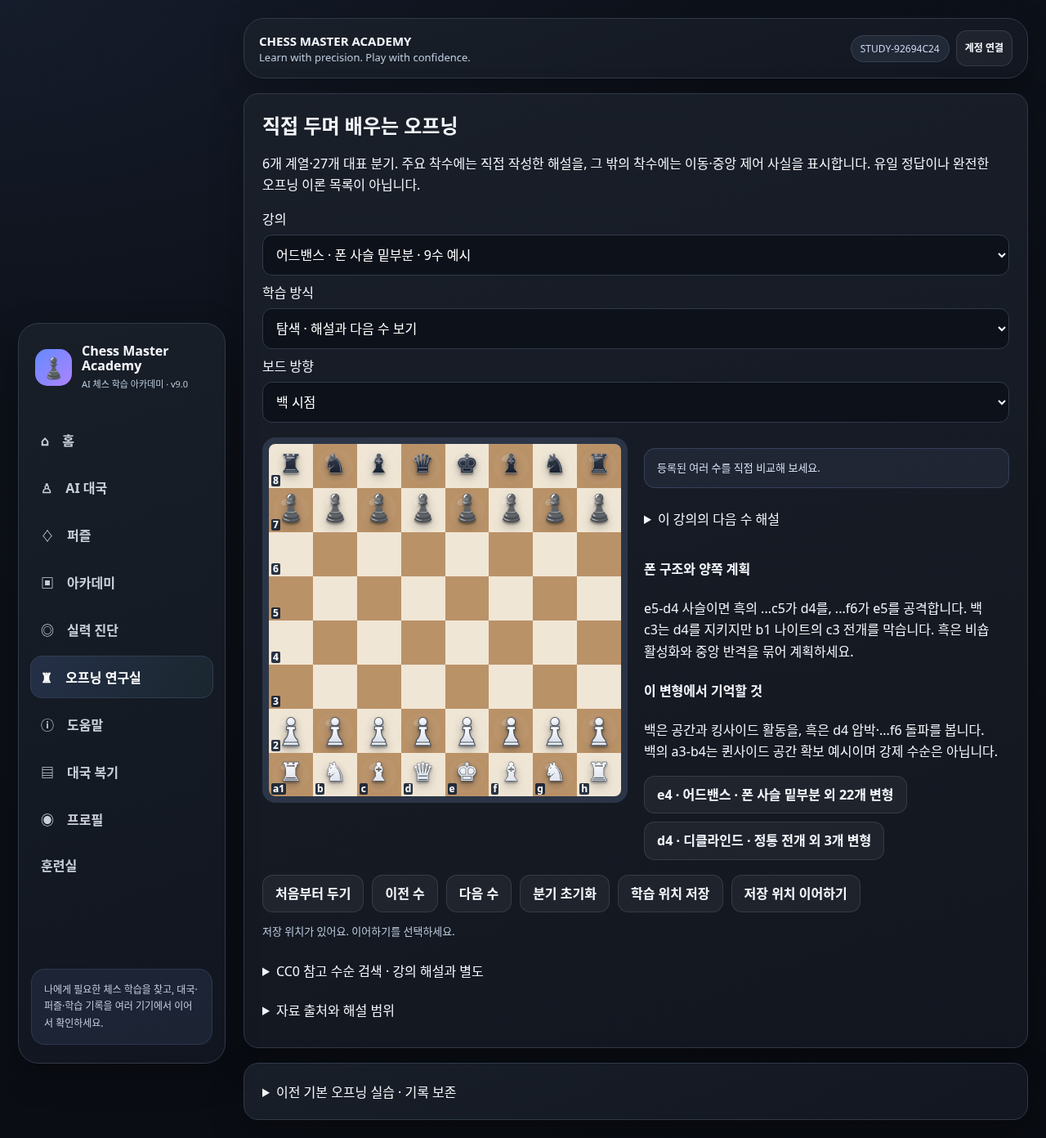
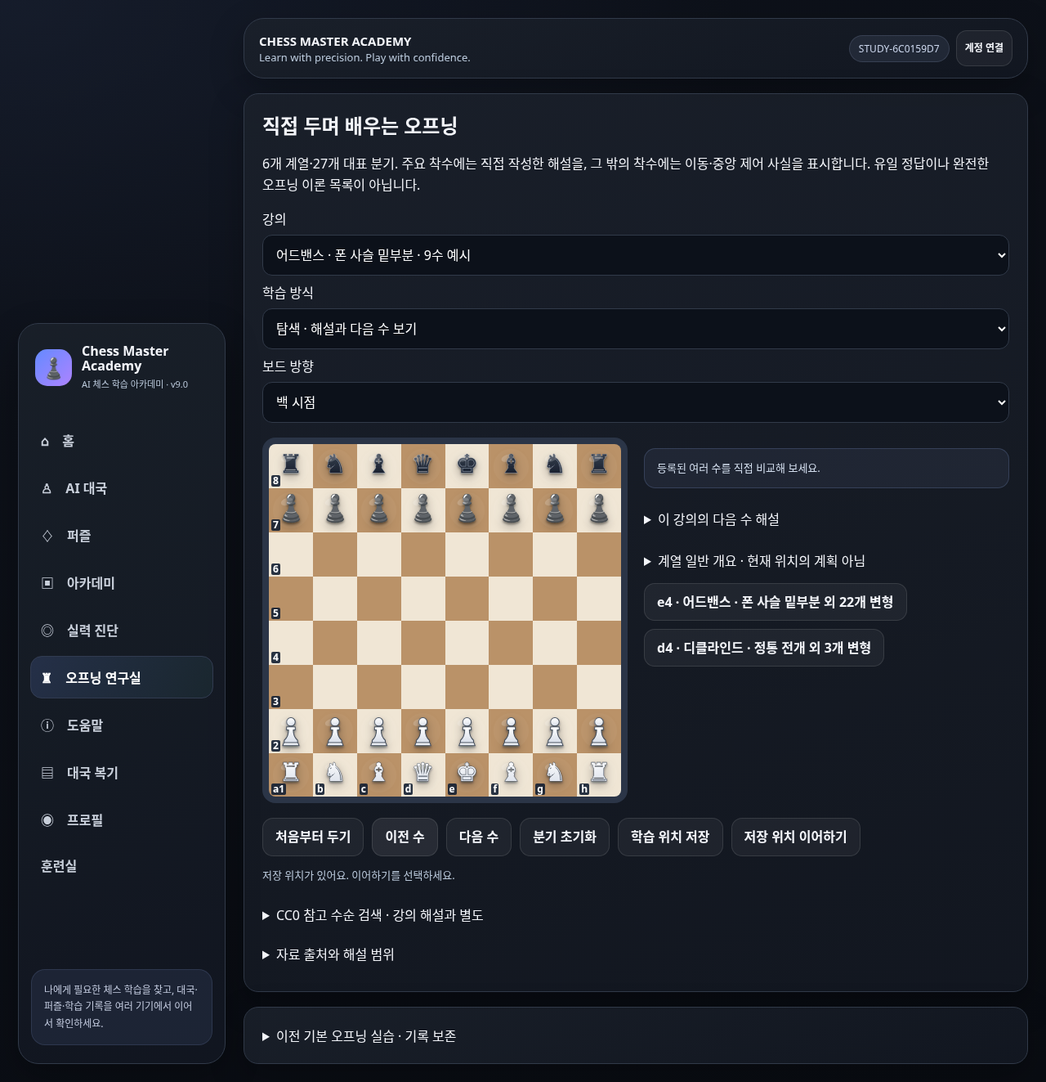
Fix review-only history actions and opening position consistency

diff --git a/public/journey.js b/public/journey.js
@@ -22,25 +22,25 @@ function button(parent,label,fn){const b=text(parent,'button',label,'btn');b.typ
 function lines(v){return Array.isArray(v)?v.join(' · '):typeof v==='object'?Object.entries(v||{}).map(([k,x])=>`${k}: ${x}`).join(' · '):String(v??'');}
 function dateLabel(value){if(!value)return '시각 미기록';const d=new Date(value);return isNaN(d)?'시각 미기록':d.toLocaleString('ko-KR',{dateStyle:'medium',timeStyle:'short'});}
 function verdict(item){return item.outcome==='verified_error'?'엔진 분석에서 큰 손실 확인':item.outcome==='equivalent_alternative'?'평가가 비슷한 대안 · 전체 수순은 추가 확인':item.outcome==='unverified_alternative'?'대안 수 판단 보류 · 실패 집계 제외':item.outcome==='not_answered'?'미응답 · 수행 미관찰':item.outcome==='verified_non_mate'?'규칙으로 확인된 메이트 미달성':item.complete?'전체 수순 성공':item.first_correct?'첫수 성공 · 전체 수순 미완료':'수행 확인 필요';}
-function renderReport(report,target='journeyResults'){let host=by(target);host.replaceChildren();if(!report)return;
- if(report.snapshot&&window.growthReport){window.growthReport(host,report,state?.cycle,(task)=>window.learningCycle(report.id,task.id),()=>start('balanced'),(area)=>start('targeted',area));const details=document.createElement('details');host.append(details);text(details,'summary','문항별 풀이와 자세한 근거');host=text(details,'div','');}
+function renderReport(report,target='journeyResults',readOnly=false){let host=by(target);host.replaceChildren();if(!report)return;
+ if(report.snapshot&&window.growthReport){window.growthReport(host,report,state?.cycle,(task)=>window.learningCycle(report.id,task.id),()=>start('balanced'),(area)=>start('targeted',area),readOnly);const details=document.createElement('details');host.append(details);text(details,'summary','문항별 풀이와 자세한 근거');host=text(details,'div','');}
  const heading=text(host,'div','','card');text(heading,'h3','진단 결과 · 수행 근거');text(heading,'p',dateLabel(report.at),'subtle');
  text(heading,'p',report.summary?.observed||'첫수 성공과 전체 수순 성공을 구분해 확인하세요.');
  text(heading,'p',report.summary?.uncertain||'적은 표본이나 과거 노출 불명은 실력 부족을 뜻하지 않습니다.','notice');
  text(heading,'p',report.summary?.next||'관찰한 수순 한 가지를 연습해 보세요.');
  const next=(report.recommendations||[])[0]||(report.comparison_practice||[])[0];
- if(next)button(heading,`연결된 훈련 시작 · ${next.label||'수순 비교'}`,()=>train(report.id,next.item_id));
+ if(next&&!readOnly)button(heading,`연결된 훈련 시작 · ${next.label||'수순 비교'}`,()=>train(report.id,next.item_id));
  const grid=text(host,'div','','journey-areas');for(const area of report.areas||[]){const card=text(grid,'article','','card');text(card,'h3',area.label||area.id);text(card,'p',`문항 ${area.count??0} · 첫수 성공 ${area.first_success??0} · 전체 성공 ${area.full_success??0} · 부분 수행 ${area.partial??0}`);
  text(card,'p',`판단 보류 ${area.unverified??0} · 미응답 ${area.unanswered??0} · 앱 내 새 국면 수행 ${area.app_new_attempts??0}`,'subtle');text(card,'p',`${area.confidence||'근거 부족'} · ${(area.reason||'추가 관찰이 필요합니다.').replaceAll('defensiveMove','방어 수')}`,'notice');
  const details=document.createElement('details');card.append(details);text(details,'summary','문항별 근거 확인');text(details,'p',`독립 국면 ${area.independent??0} · ${report.version||'버전 미기록'} · ${report.measurement_scope||'안내 조건 미기록'}`,'subtle');
  if(area.evidence)text(details,'p',`같은 조건의 앱 내 누적 관찰 ${area.evidence.tracked??0}국면 · 최근 ${dateLabel(area.evidence.latest_at)}`);
- let drawn=false;details.addEventListener('toggle',()=>{if(!details.open||drawn)return;drawn=true;for(const item of area.items||[]){const box=text(details,'div','','journey-item');text(box,'h4',verdict(item));text(box,'p',item.reason||'');if(item.engine_evidence)text(box,'p',window.cmaEvidenceLabel?.(item.engine_evidence)||'엔진 근거 확인 필요');text(box,'p',`직접 맞힌 수 ${item.correct_plies??0}/${item.total_plies??0} · 자료 난도 ${item.rating??'미기록'}`);text(box,'p',`내 응답: ${lines(item.submitted)||'없음'} · 기준 응답: ${lines(item.expected)||'없음'}`,'subtle');text(box,'p',`노출 ${dateLabel(item.shown_at)} · 제출 ${dateLabel(item.completed_at)}`,'footnote');text(box,'p',`근거 ID ${item.id} / ${item.puzzle_id||'국면'} · 태그 ${lines(item.tags)} · 도움 ${item.helped===false?'없음':'미기록 또는 사용'} · 앱 밖 과거 노출 ${item.prior_exposure_unknown?'알 수 없음':'미기록'}`,'footnote');if(item.fen){const mini=text(box,'div','','board journey-evidence-board');mini.id=`journeyEvidence-${report.id}-${item.id}`.replace(/[^a-zA-Z0-9_-]/g,'_');drawBoard(mini.id,fromFen(item.fen),{flip:item.fen.split(' ')[1]==='b'});}button(box,'이 근거로 훈련하기',()=>train(report.id,item.id));}});
- if(state?.competencies?.find(c=>c.id===area.id)?.measured===false){text(card,'p','검증된 자료가 준비되기 전에는 출제하지 않습니다.','footnote');}else{
+ let drawn=false;details.addEventListener('toggle',()=>{if(!details.open||drawn)return;drawn=true;for(const item of area.items||[]){const box=text(details,'div','','journey-item');text(box,'h4',verdict(item));text(box,'p',item.reason||'');if(item.engine_evidence)text(box,'p',window.cmaEvidenceLabel?.(item.engine_evidence)||'엔진 근거 확인 필요');text(box,'p',`직접 맞힌 수 ${item.correct_plies??0}/${item.total_plies??0} · 자료 난도 ${item.rating??'미기록'}`);text(box,'p',`내 응답: ${lines(item.submitted)||'없음'} · 기준 응답: ${lines(item.expected)||'없음'}`,'subtle');text(box,'p',`노출 ${dateLabel(item.shown_at)} · 제출 ${dateLabel(item.completed_at)}`,'footnote');text(box,'p',`근거 ID ${item.id} / ${item.puzzle_id||'국면'} · 태그 ${lines(item.tags)} · 도움 ${item.helped===false?'없음':'미기록 또는 사용'} · 앱 밖 과거 노출 ${item.prior_exposure_unknown?'알 수 없음':'미기록'}`,'footnote');if(item.fen){const mini=text(box,'div','','board journey-evidence-board');mini.id=`journeyEvidence-${report.id}-${item.id}`.replace(/[^a-zA-Z0-9_-]/g,'_');drawBoard(mini.id,fromFen(item.fen),{flip:item.fen.split(' ')[1]==='b'});}if(!readOnly)button(box,'이 근거로 훈련하기',()=>train(report.id,item.id));}});
+ if(state?.competencies?.find(c=>c.id===area.id)?.measured===false){text(card,'p','검증된 자료가 준비되기 전에는 출제하지 않습니다.','footnote');}else if(!readOnly){
  const extra=state?.additional?.[area.id];if(extra)text(card,'p',extra.reason,'footnote');button(card,'이 영역 추가 확인',()=>start('targeted',area.id));
  const gate=state?.rechecks?.[area.id];if(gate){text(card,'p',gate.reason+(gate.ready_at?` 재평가 가능: ${dateLabel(gate.ready_at)}`:''));if(gate.last_exposure_at)text(card,'p','마지막 관련 노출: '+dateLabel(gate.last_exposure_at),'subtle');text(card,'p',gate.practice_effect+' '+gate.while_waiting,'footnote');}
  const recheck=button(card,'7일 뒤 기억 유지 확인',()=>start('recheck',area.id));recheck.dataset.ineligible=String(gate?.eligible===false);recheck.disabled=gate?.eligible===false;
  }}
- if((!session||session.phase==='complete')&&!report.snapshot){const b=button(host,'새 진단 시작',()=>start());b.dataset.ineligible=String(state?.cycle&&!state.cycle.unlocked);}
+ if(!readOnly&&(!session||session.phase==='complete')&&!report.snapshot){const b=button(host,'새 진단 시작',()=>start());b.dataset.ineligible=String(state?.cycle&&!state.cycle.unlocked);}
  const audit=document.createElement('details');host.append(audit);text(audit,'summary','측정 범위와 비교 제한');if(report.comparison)text(audit,'p',lines(report.comparison));for(const limitation of report.limitations||[])text(audit,'p',limitation,'footnote');
 }
 function renderHome(){const primary=by('journeyHomeOpen');if(busy||state?.preparing){primary.textContent='준비 상태 확인';by('journeyHomeStatus').textContent=state?.preparing?'진단 자료를 준비 중입니다. 다른 기능을 이용할 수 있습니다.':'저장 상태를 확인 중입니다.';primary.onclick=open;return;}
@@ -51,11 +51,11 @@ function renderHome(){const primary=by('journeyHomeOpen');if(busy||state?.prepar
 function renderBoard(){const q=session?.question,fb=session?.feedback;const fen=session?.phase==='feedback'?(fb?.fen||q?.fen):q?.fen;if(!fen){by('journeyBoard').replaceChildren();return;}const legal=q?.legal||[];drawBoard('journeyBoard',fromFen(fen),{flip:q?.side==='black'||q?.side==='b',selected,targets:selected?legal.filter(u=>u.slice(0,2)===selected).map(u=>({to:u.slice(2,4)})):[],opponent:q?.opponent_last_move?[q.opponent_last_move.slice(0,2),q.opponent_last_move.slice(2,4)]:[],onClick:session.phase==='question'&&!busy&&!needsRefresh?click:undefined});}
 function renderSession(value){session=value;selected=null;window.cmaMate?.clear('journeyBoard');const active=value&&value.phase!=='complete';if(active)by('journeyResults').replaceChildren();by('journeyTask').hidden=!active;by('journeyIntro').hidden=!!active||!!state?.latest||!!value?.report;if(!active){by('journeyBoard').replaceChildren();if(value?.report){if(value.report.snapshot)pendingLoad=true;state={...(state||{}),active:null,latest:value.report};renderReport(value.report);}controls();return;}const q=value.question||{};by('journeyProgress').textContent=`${value.index+1} / ${value.total} 문항`;by('journeySide').textContent=q.side==='black'||q.side==='b'?'흑 차례':'백 차례';by('journeyGoal').textContent=q.goal||'후속 수순까지 찾아보세요.';by('journeyLabel').textContent=q.label||q.competency||'현재 과제';by('journeyInstruction').textContent=value.phase==='question'?value.measurement_scope==='uncued_execution'?'상대 응수를 보고 이어서 직접 두세요.':`상대 응수 뒤에도 이어서 직접 두세요. 내 착수 진행 ${q.ply??0} / ${q.total_plies??'?'}회`:'이 문항의 채점이 저장되었습니다. 다음 문항을 눌러 진행하세요.';by('journeySkip').hidden=value.phase!=='question';by('journeyNext').hidden=value.phase!=='feedback';by('journeyNext').textContent=value.index+1===value.total?'결과 보기':'다음 문항';const fb=by('journeyFeedback');fb.replaceChildren();if(value.phase==='feedback'){const f=value.feedback||{};text(fb,'h3',verdict(f));text(fb,'p',f.reason||'');if(f.engine_evidence){text(fb,'p',window.cmaEvidenceLabel?.(f.engine_evidence)||'분석 상태를 확인하세요.');const detail=text(fb,'details','');text(detail,'summary','대안 판정 근거');text(detail,'p',window.cmaEvidenceLabel?.(f.engine_evidence)||f.engine_evidence.reason);text(detail,'small',JSON.stringify(f.engine_evidence));}text(fb,'p',`직접 맞힌 수 ${f.correct_plies??0}/${f.total_plies??0}`);text(fb,'p',`실제 제출한 내 수: ${lines(f.submitted)||'없음'} · 원본 기준 내 수: ${lines(f.expected)||'없음'}`);if(f.continuation?.length){text(fb,'p',(f.complete?'실제 완료 수순: ':'원본 기준 수순: ')+f.continuation.map(x=>x.san||x.move).join(' → '));const replay=document.createElement('details');fb.append(replay);text(replay,'summary','상대 응수와 후속 수순 다시 보기');text(replay,'p','채점 후 해설입니다. 재생해도 진단 응답이나 성공 기록은 바뀌지 않습니다.','footnote');const replayBoard=text(replay,'div','','board');replayBoard.id='journeyLineBoard';const step=text(replay,'p','','notice');let position=0;const frames=f.continuation.filter(x=>x.fen);const draw=()=>{if(!frames.length)return;const frame=frames[position];drawBoard('journeyLineBoard',fromFen(frame.fen),{flip:q.side==='black'||q.side==='b'});step.textContent=`${position+1} / ${frames.length} · ${frame.san||frame.move||''}`;};button(replay,'이전 수',()=>{position=Math.max(0,position-1);draw();});button(replay,'다음 수',()=>{position=Math.min(frames.length-1,position+1);draw();});replay.addEventListener('toggle',draw);}window.cmaMate?.show('journeyBoard',f.mate_explanation,q.side==='black'||q.side==='b');}renderBoard();controls();}
 async function request(work,done){if(busy)return;const auth=token,stamp=++serial;busy=true;selected=null;controls();renderBoard();say('서버에 저장된 상태를 확인하고 있습니다…');const slow=setTimeout(()=>{if(stamp===serial)say('응답이 지연되고 있습니다. 이 창을 닫아도 저장된 진단은 유지됩니다. 중복 제출하지 않고 기다려 주세요.');},12000);try{const value=await work();if(stamp!==serial||token!==auth)return;needsRefresh=false;done(value);say('서버 상태를 확인했습니다.');}catch(e){if(stamp===serial&&token===auth){needsRefresh=true;say(`${e.message} 저장 상태 확인으로 실제 반영 여부를 먼저 확인하세요.`);selected=null;}}finally{clearTimeout(slow);if(stamp===serial){busy=false;controls();renderBoard();if(pendingLoad){pendingLoad=false;load();}}}}
-async function load(){if(busy){pendingLoad=true;return;}if(owner!==token)clear();if(!token){say('진단을 저장하고 이어하려면 로그인해 주세요. 시작 버튼을 누르면 로그인으로 안내합니다.');controls();return;}return request(()=>api('/journey'),d=>{state=d;window.growthProfile?.(d);window.cmaLearningCycle?.(d);if(!d.active)renderReport(d.latest);renderSession(d.active);by('journeyPast').hidden=!d.results?.length;by('journeyPast').open=false;by('journeyPastReport').replaceChildren();const history=by('journeyHistory');history.replaceChildren();history.hidden=!d.results?.length;if(d.results?.length){const label=text(history,'label','저장된 진단 선택 ');const select=document.createElement('select');select.className='field';select.setAttribute('aria-label','저장된 진단 선택');label.append(select);for(const report of [...d.results].reverse()){const option=text(select,'option',dateLabel(report.at));option.value=report.id;}select.value=d.latest?.id||select.value;const showPast=()=>{renderReport(d.results.find(r=>r.id===select.value),'journeyPastReport');by('journeyPastReport').querySelector('.growth-plan')?.remove();for(const b of by('journeyPastReport').querySelectorAll('button')){b.disabled=true;b.dataset.ineligible='true';}};select.onchange=showPast;by('journeyPast').ontoggle=()=>{if(by('journeyPast').open)showPast();};}by('journeyHomeStatus').textContent=d.active?'저장된 진단이 있습니다. 이어서 풀이하고 근거를 확인하세요.':d.latest?'완료한 진단의 근거를 확인하고 훈련·재평가로 이어가세요.':'아직 진단 기록이 없습니다. 기본 진단부터 시작하세요.';if(!d.active&&d.legacy_notice){text(by('journeyResults'),'p',d.legacy_notice,'footnote');}if(!d.active&&d.competencies){const unmeasured=d.competencies.filter(c=>!c.measured);if(unmeasured.length)text(by('journeyResults'),'p','미측정: '+unmeasured.map(c=>`${c.label} (${c.scope})`).join(' · '),'notice');}});}
+async function load(){if(busy){pendingLoad=true;return;}if(owner!==token)clear();if(!token){say('진단을 저장하고 이어하려면 로그인해 주세요. 시작 버튼을 누르면 로그인으로 안내합니다.');controls();return;}return request(()=>api('/journey'),d=>{state=d;window.growthProfile?.(d);window.cmaLearningCycle?.(d);if(!d.active)renderReport(d.latest);renderSession(d.active);by('journeyPast').hidden=!d.results?.length;by('journeyPast').open=false;by('journeyPastReport').replaceChildren();const history=by('journeyHistory');history.replaceChildren();history.hidden=!d.results?.length;if(d.results?.length){const label=text(history,'label','저장된 진단 선택 ');const select=document.createElement('select');select.className='field';select.setAttribute('aria-label','저장된 진단 선택');label.append(select);for(const report of [...d.results].reverse()){const option=text(select,'option',dateLabel(report.at));option.value=report.id;}select.value=d.latest?.id||select.value;const showPast=()=>{renderReport(d.results.find(r=>r.id===select.value),'journeyPastReport',true);by('journeyPastReport').querySelector('.growth-plan')?.remove();for(const b of by('journeyPastReport').querySelectorAll('button')){b.disabled=true;b.dataset.ineligible='true';}};select.onchange=showPast;by('journeyPast').ontoggle=()=>{if(by('journeyPast').open)showPast();};}by('journeyHomeStatus').textContent=d.active?'저장된 진단이 있습니다. 이어서 풀이하고 근거를 확인하세요.':d.latest?'완료한 진단의 근거를 확인하고 훈련·재평가로 이어가세요.':'아직 진단 기록이 없습니다. 기본 진단부터 시작하세요.';if(!d.active&&d.legacy_notice){text(by('journeyResults'),'p',d.legacy_notice,'footnote');}if(!d.active&&d.competencies){const unmeasured=d.competencies.filter(c=>!c.measured);if(unmeasured.length)text(by('journeyResults'),'p','미측정: '+unmeasured.map(c=>`${c.label} (${c.scope})`).join(' · '),'notice');}});}
 function start(mode='balanced',competency){if(needsRefresh||!ready('diagnosis'))return;return request(()=>api('/journey/start','POST',{mode,competency}),d=>{renderSession(d);if(d.phase!=='complete')by('journeyResults').replaceChildren();});}
 function action(kind,move){if(!session)return;const body={session_id:session.session_id,revision:session.revision,action:kind};if(move)body.move=move;return request(()=>api('/journey/action','POST',body),renderSession);}
 async function click(square){if(busy||needsRefresh||session?.phase!=='question')return;const q=session.question,choices=(q.legal||[]).filter(u=>u.slice(0,2)===selected&&u.slice(2,4)===square);if(!choices.length){selected=q.legal.some(u=>u.slice(0,2)===square)?square:null;renderBoard();return;}let move=choices[0];if(choices.length>1){const old=session,auth=token;busy=true;controls();try{const suffix=await choosePromotion(selected,square,fromFen(q.fen)[selected],q.legal);if(!suffix||old!==session||auth!==token||!section.classList.contains('active'))return;move=choices.find(u=>u[4]===suffix);}finally{busy=false;controls();}}if(move)action('move',move);}
-async function train(report_id,item_id){if(!ready('diagnosis')||busy||needsRefresh)return;return window.learningFromDiagnosis(report_id,item_id);}
+async function train(report_id,item_id){if(!ready('diagnosis')||busy||needsRefresh||(session&&session.phase!=='complete'))return;return window.learningFromDiagnosis(report_id,item_id);}
 by('journeyStart').onclick=()=>start();by('journeyQuick').onclick=()=>start('quick');by('journeyResume').onclick=()=>{renderSession(session);by('journeyTask').scrollIntoView({block:'start'});};by('journeyRefresh').onclick=load;by('journeyNext').onclick=()=>action('next');by('journeySkip').onclick=()=>action('skip');by('journeyPause').onclick=()=>tab('home');
 const oldTab=tab;tab=function(id){document.body.classList.toggle('journey-active',id==='diagnosis');if(owner!==token){++serial;busy=false;clear();}if(busy){++serial;busy=false;pendingLoad=false;needsRefresh=true;}oldTab(id);if(['diagnosis','home','profile','training'].includes(id))load();};
 const oldSignout=by('signout')?.onclick;if(oldSignout)by('signout').onclick=function(e){++serial;busy=false;clear();return oldSignout.call(this,e);};

diff --git a/public/growth.js b/public/growth.js
@@ -4,7 +4,7 @@ const node=(parent,tag,text,cls)=>{const e=document.createElement(tag);if(text!=
 const button=(parent,label,fn)=>{const b=node(parent,'button',label,'btn');b.type='button';b.onclick=fn;return b;};
 const date=value=>{const d=new Date(value);return isNaN(d)?'날짜 미기록':d.toLocaleDateString('ko-KR');};
 const labels={mate:'메이트',calculation:'이어지는 수 읽기',capture:'포획과 교환',defense:'위협에 대응',promotion:'승격',endgame:'종반 전술',strategy:'전략과 계획'};
-window.growthReport=(host,report,cycle,train,recheck,additional)=>{
+window.growthReport=(host,report,cycle,train,recheck,additional,readOnly=false)=>{
  const intro=node(host,'section',null,'card growth-intro');node(intro,'span','나의 분야별 실력','tag');node(intro,'h2','잘한 부분을 살리고, 다음 수를 연습해요');
  node(intro,'p',report.insights?.message||'이번에 관찰한 수행을 확인하세요.');
  const strengths=report.insights?.strengths||[],priorities=report.insights?.priorities||[];
@@ -12,7 +12,8 @@ window.growthReport=(host,report,cycle,train,recheck,additional)=>{
  for(const [title,list,empty] of [['잘한 부분',strengths,'아직 완주한 수순이 적어요. 첫 수를 찾은 경험부터 쌓아 봐요.'],['먼저 연습할 부분',priorities,'뚜렷한 차이보다 고르게 확인할 부분이 보여요. 추천 과제로 함께 연습해요.']]){const box=node(insights,'div');node(box,'h3',title);if(!list.length)node(box,'p',empty);for(const a of list.slice(0,2)){node(box,'strong',labels[a.id]||a.label);node(box,'p',a.reason.split('。')[0].split('. ')[0]);}}
  const abilities=node(host,'section',null,'card');node(abilities,'h3','분야별 수행 지표');node(abilities,'p','기초·응용 문제에서 직접 이어 둔 수를 0–100으로 나타냈어요. 실전 레이팅이 아니며, 작은 변화는 다음 진단에서도 확인해 보세요.','subtle');
  const grid=node(abilities,'div',null,'ability-grid');
- for(const area of report.areas||[]){const card=node(grid,'article',null,'ability-card'),p=area.performance||{};node(card,'h4',labels[area.id]||area.label);node(card,'strong',p.score==null?(area.id==='strategy'?'미측정':(p.observed||area.unverified||area.equivalent||area.partial||area.first_success)?'추가 확인 필요':'아직 응답 없음'):`${p.score} / 100`,'ability-score');const meter=node(card,'div',null,'ability-meter');meter.setAttribute('aria-hidden','true');if(p.score!=null){const fill=node(meter,'span');fill.style.width=p.score+'%';}node(card,'p',area.observation);node(card,'small',p.score==null?(area.id==='strategy'?'검증된 전략 과제가 준비되기 전까지 점수를 표시하지 않습니다.':`점수는 기초·응용 양쪽 관찰이 필요해요. 기초 ${p.band_counts?.[0]||0}개, 응용 ${p.band_counts?.[1]||0}개 확인. 각 난도 2개씩 확인하면 성장 비교 조건을 충족해요. 판단 보류와 건너뛰기는 0점이 아닙니다.`):`${p.observed}문제 관찰 · ${p.comparable?'균형 진단 조건 충족':'간이·부분 관찰'} · ${p.confidence}`);if(p.range){const detail=node(card,'details');node(detail,'summary','점수 해석');node(detail,'small',`불확실성 범위 ${p.range[0]}–${p.range[1]} · 표본이 적어 넓게 표시돼요. 검증된 실력 범위가 아닌 문제 표본에 따른 참고 범위입니다.`);}if(area.id!=='strategy')button(card,'이 분야 더 확인하기',()=>additional(area.id));}
+ for(const area of report.areas||[]){const card=node(grid,'article',null,'ability-card'),p=area.performance||{};node(card,'h4',labels[area.id]||area.label);node(card,'strong',p.score==null?(area.id==='strategy'?'미측정':(p.observed||area.unverified||area.equivalent||area.partial||area.first_success)?'추가 확인 필요':'아직 응답 없음'):`${p.score} / 100`,'ability-score');const meter=node(card,'div',null,'ability-meter');meter.setAttribute('aria-hidden','true');if(p.score!=null){const fill=node(meter,'span');fill.style.width=p.score+'%';}node(card,'p',area.observation);node(card,'small',p.score==null?(area.id==='strategy'?'검증된 전략 과제가 준비되기 전까지 점수를 표시하지 않습니다.':`점수는 기초·응용 양쪽 관찰이 필요해요. 기초 ${p.band_counts?.[0]||0}개, 응용 ${p.band_counts?.[1]||0}개 확인. 각 난도 2개씩 확인하면 성장 비교 조건을 충족해요. 판단 보류와 건너뛰기는 0점이 아닙니다.`):`${p.observed}문제 관찰 · ${p.comparable?'균형 진단 조건 충족':'간이·부분 관찰'} · ${p.confidence}`);if(p.range){const detail=node(card,'details');node(detail,'summary','점수 해석');node(detail,'small',`불확실성 범위 ${p.range[0]}–${p.range[1]} · 표본이 적어 넓게 표시돼요. 검증된 실력 범위가 아닌 문제 표본에 따른 참고 범위입니다.`);}if(!readOnly&&area.id!=='strategy')button(card,'이 분야 더 확인하기',()=>additional(area.id));}
+ if(readOnly)return;
  const plan=node(host,'section',null,'card growth-plan');node(plan,'h3','다음 진단까지, 추천 훈련 5개');
  const current=cycle?.report_id===report.id?cycle:null;
  node(plan,'p',current?.message||'이전 진단의 추천 목록입니다. 최신 결과에서 현재 훈련을 시작하세요.','cycle-message');

diff --git a/opening_courses.py b/opening_courses.py
@@ -27,15 +27,15 @@ add('ruy-closed','ruy','클로즈드 · 중앙과 나이트 재배치','e4 e5 Nf
 add('ruy-exchange','ruy','교환 변형 · 폰 구조와 비숍 쌍','e4 e5 Nf3 Nc6 Bb5 a6 Bxc6 dxc6 O-O f6 d4 exd4 Nxd4 c5 Nb3 Qxd1 Rxd1 Bd7',
 {7:'Bxc6는 비숍 쌍을 주고 흑의 폰 구조를 바꿉니다. 단순한 기물 획득이 아닙니다.',8:'...dxc6는 비숍 길을 열면서 더블 c폰을 받아들입니다.',10:'...f6는 e5를 지지하지만 킹 주변 칸을 약화합니다. 기물 전개와 연결해 평가하세요.',16:'퀸 교환 뒤 백은 구조, 흑은 비숍의 활동성을 살립니다.'},'백은 킹사이드 폰 다수와 좋은 교환을, 흑은 비숍 쌍과 활발한 룩을 목표로 합니다. 더블 폰만 보고 승리를 단정하지 마세요.')
 add('ruy-berlin','ruy','베를린 · 퀸 없는 중반','e4 e5 Nf3 Nc6 Bb5 Nf6 O-O Nxe4 d4 Nd6 Bxc6 dxc6 dxe5 Nf5 Qxd8+ Kxd8 Nc3 Ke8',
-{8:'...Nxe4는 중앙 폰을 잡지만 백의 d4에 나이트가 움직여야 합니다.',10:'...Nd6는 b5 비숍을 공격하며 중앙을 정리합니다.',16:'...Kxd8로 캐슬링 권리는 사라지지만 퀸 교환이 킹 위험을 줄입니다.',17:'Nc3는 기물 전개를 마치며 e4·d5를 살핍니다.'},'백은 공간과 킹사이드 다수, 흑은 비숍 쌍과 단단한 칸을 활용합니다. 퀸이 없어도 기물 활동을 마쳐야 합니다.')
+{8:'...Nxe4는 중앙 폰을 잡지만 백의 d4에 나이트가 움직여야 합니다.',10:'...Nd6는 b5 비숍을 공격하며 중앙을 정리합니다.',16:'...Kxd8로 캐슬링 권리는 사라지지만 퀸 교환이 킹 위험을 줄입니다.',17:'Nc3는 퀸사이드 나이트를 전개하며 e4·d5를 살핍니다.'},'백은 공간과 킹사이드 다수, 흑은 비숍 쌍과 단단한 칸을 활용합니다. 퀸이 없어도 기물 활동을 마쳐야 합니다.')
 add('ruy-steinitz','ruy','조기 d6 · 중앙 압박','e4 e5 Nf3 Nc6 Bb5 d6 d4 Bd7 Nc3 Nf6 O-O Be7 Re1 exd4 Nxd4 O-O',
 {6:'...d6는 e5를 지지하지만 f8 비숍을 막습니다.',7:'d4는 흑이 수동적으로 배치한 순간 중앙 공간을 얻습니다.',8:'...Bd7은 c6 나이트의 핀을 풀어 기물을 움직일 자유를 만듭니다.',14:'...exd4는 중앙 긴장을 풀고 기물 활동을 노립니다. 닫힌 e5 구조와는 계획이 달라집니다.'},'백은 중앙 공간을 기물 활동으로 바꾸고 흑은 ...Re8·...Bf8 같은 재배치와 ...d5 돌파를 준비합니다.')
 add('sicilian-open','sicilian','오픈형 · d4 교환의 의미','e4 c5 Nf3 Nc6 d4 cxd4 Nxd4 Nf6 Nc3 d6 Be2 e6 O-O Be7 Be3 O-O',
-{5:'d4는 중앙을 열고 빠른 전개를 택합니다. c3로 폰 중앙을 만드는 알라핀과 다릅니다.',6:'...cxd4로 흑 c폰과 백 d폰이 교환되어 비대칭 파일이 생깁니다.',10:'...d6는 e5를 제어하며 중앙 폰을 지킵니다.',12:'...e6는 d5를 지지하지만 c8 비숍의 길을 좁힙니다.'},'백은 f4와 중앙 기물 활동을, 흑은 ...a6·...Qc7와 ...d5를 준비합니다. 공격 전 상대의 중앙 돌파를 확인하세요.')
+{5:'d4는 중앙을 열고 빠른 전개를 택합니다. c3로 폰 중앙을 만드는 알라핀과 다릅니다.',6:'...cxd4로 흑 c폰과 백 d폰이 교환되어 비대칭 파일이 생깁니다.',10:'...d6는 e5 칸을 통제하고 c8 비숍의 길을 엽니다.',12:'...e6는 d5를 지지하지만 c8 비숍의 길을 좁힙니다.'},'백은 f4와 중앙 기물 활동을, 흑은 ...a6·...Qc7와 ...d5를 준비합니다. 공격 전 상대의 중앙 돌파를 확인하세요.')
 add('sicilian-najdorf','sicilian','나이도프 · a6와 중앙 선택','e4 c5 Nf3 d6 d4 cxd4 Nxd4 Nf6 Nc3 a6 Be3 e5 Nb3 Be6 f3 Nbd7 Qd2 Be7 O-O-O O-O',
-{10:'...a6는 b5의 백 기물을 막고 ...b5를 준비합니다. 즉시 ...e5를 택할 때 생기는 d5 구멍도 고려합니다.',12:'...e5는 나이트를 몰지만 d5 칸이 약해집니다. ...e6도 다른 구조의 선택입니다.',15:'f3는 e4를 지지하고 g4 전진을 준비합니다. 전개보다 폰 공격만 앞서지 않도록 하세요.',19:'긴 캐슬링 뒤 양쪽 킹이 반대편입니다. 백은 킹사이드, 흑은 퀸사이드 전진의 속도를 비교합니다.'},'백은 g4-g5와 d5 거점, 흑은 ...b5-b4와 c파일을 봅니다. 희생 공격은 구체적인 수순 검증이 필요합니다.')
+{10:'...a6는 b5의 백 기물을 막고 ...b5를 준비합니다. 즉시 ...e5를 택할 때 생기는 d5 구멍도 고려합니다.',12:'...e5는 나이트를 몰지만 d5 칸이 약해집니다. ...e6도 다른 구조의 선택입니다.',15:'f3는 e4를 지지하고 g4 전진을 준비합니다. 전개보다 폰 공격만 앞서지 않도록 하세요.',19:'백은 긴 캐슬링을 마쳤고 흑 킹은 아직 e8에 있습니다. 다음 ...O-O를 선택하면 반대편 캐슬링이 되어 양쪽 폰 공격의 속도를 비교합니다.'},'백은 g4-g5와 d5 거점, 흑은 ...b5-b4와 c파일을 봅니다. 희생 공격은 구체적인 수순 검증이 필요합니다.')
 add('sicilian-dragon','sicilian','드래곤 · 장대각선과 반대편 캐슬링','e4 c5 Nf3 d6 d4 cxd4 Nxd4 Nf6 Nc3 g6 Be3 Bg7 f3 O-O Qd2 Nc6 Bc4 Bd7 O-O-O Rc8',
-{10:'...g6는 g7 비숍을 장대각선에 놓는 준비입니다. d5와 b2 방향의 압력을 봅니다.',13:'f3는 e4를 지키고 ...Ng4로 비숍이 공격받는 것을 막습니다.',17:'Bc4는 d5 돌파를 견제합니다. 바로 긴 캐슬링하는 수순과 흑의 반격 시기가 다릅니다.',20:'...Rc8은 열린 c파일로 백 킹을 겨냥합니다. 기계적인 폰 공격보다 파일의 기물을 계산하세요.'},'백은 h폰 전진과 g7 비숍 교환, 흑은 c파일과 ...d5 돌파를 살핍니다. 드래곤의 비숍을 교환할 때 검은 칸 안전을 확인하세요.')
+{10:'...g6는 g7 비숍을 장대각선에 놓는 준비입니다. d5와 b2 방향의 압력을 봅니다.',13:'f3는 e4를 지키고 ...Ng4로 비숍이 공격받는 것을 막습니다.',17:'Bc4는 d5 돌파를 견제합니다. 바로 긴 캐슬링하는 수순과 흑의 반격 시기가 다릅니다.',20:'...Rc8은 흑에게 반열린 c파일로 백 킹을 겨냥합니다. 기계적인 폰 공격보다 파일의 기물을 계산하세요.'},'백은 h폰 전진과 g7 비숍 교환, 흑은 c파일과 ...d5 돌파를 살핍니다. 드래곤의 비숍을 교환할 때 검은 칸 안전을 확인하세요.')
 add('sicilian-classical','sicilian','클래시컬 · 자연 전개와 핀','e4 c5 Nf3 d6 d4 cxd4 Nxd4 Nf6 Nc3 Nc6 Bg5 e6 Qd2 Be7 O-O-O O-O f4 h6 Bh4',
 {10:'...Nc6는 d4·e5를 제어합니다. 나이도프의 ...a6보다 기물을 먼저 전개합니다.',11:'Bg5는 f6 나이트를 묶어 d5 제어를 흔듭니다.',14:'...Be7은 핀을 완화하고 캐슬링을 준비합니다.',17:'f4는 e5 공간 확장과 킹사이드 활동을 준비하지만 e4의 방어도 확인해야 합니다.'},'백은 e5 또는 f5를, 흑은 ...Nxd4와 ...d5를 검토합니다. 중앙에서 교환이 일어나면 킹 공격 계획을 다시 세우세요.')
 add('sicilian-alapin','sicilian','알라핀 · 폰 중앙 만들기','e4 c5 c3 d5 exd5 Qxd5 d4 Nf6 Nf3 e6 Be2 Nc6 O-O Be7 Be3 O-O',
@@ -65,4 +65,4 @@ add('queens-accepted','queens','억셉티드 · 폰보다 전개','d4 d5 c4 dxc4
 add('queens-exchange','queens','교환 · 칼스바트 구조','d4 d5 c4 e6 Nc3 Nf6 cxd5 exd5 Bg5 Be7 e3 O-O Bd3 Nbd7 Nf3 Re8 O-O c6 Qc2',
 {7:'cxd5는 흑의 e폰을 d5로 불러 칼스바트 구조를 만듭니다.',9:'Bg5는 d5 수비 나이트를 묶습니다. 비숍을 e3 폰 뒤에 가두지 않으려 먼저 전개합니다.',15:'Nf3는 빠른 캐슬링을 준비합니다. Nge2로 f폰 길을 남기는 다른 배치도 있습니다.',18:'...c6는 d5를 지지하지만 퀸사이드 폰이 공격 목표가 될 수 있습니다.'},'백은 b4-b5 소수파 공격 또는 중앙 e4, 흑은 킹사이드 기물 활동을 준비합니다. 양쪽의 약점을 만드는 데 시간이 필요합니다.')
 add('queens-slav','queens','슬라브 입문 · 비숍과 중앙','d4 d5 c4 c6 Nf3 Nf6 Nc3 dxc4 a4 Bf5 e3 e6 Bxc4 Bb4 O-O Nbd7 Qe2',
-{4:'...c6는 c폰으로 d5를 지켜 c8 비숍 길을 남깁니다. ...e6의 디클라인드와 다릅니다.',9:'a4는 ...b5로 c4 폰을 지키는 계획을 막습니다.',10:'...Bf5는 ...e6 전에 비숍을 밖으로 전개합니다.',14:'...Bb4는 c3 나이트를 압박하고 e4 전진을 어렵게 합니다.'},'백은 e4 중앙 확장, 흑은 ...Bb4·...Nbd7과 ...c5 또는 ...e5 반격을 봅니다. 슬라브와 ...e6를 먼저 두는 세미슬라브는 별개입니다.')
+{4:'...c6는 c폰으로 d5를 지켜 c8 비숍 길을 남깁니다. ...e6의 디클라인드와 다릅니다.',9:'a4는 ...b5로 c4 폰을 지키는 계획을 막습니다.',10:'...Bf5는 ...e6 전에 비숍을 밖으로 전개합니다.',14:'...Bb4는 c3 나이트를 압박하고 e4 전진을 어렵게 합니다.'},'백은 e4 중앙 확장, 흑은 이미 b4 비숍과 d7 나이트를 전개했습니다. 킹 안전을 확보하고 ...c5 또는 ...e5 반격을 봅니다. 슬라브와 ...e6를 먼저 두는 세미슬라브는 별개입니다.')

diff --git a/tests/test_study_browser.py b/tests/test_study_browser.py
@@ -91,3 +91,23 @@ def test_late_opening_bookmark_cannot_replace_new_course(page,site):
     click_move(page,'studyOpeningBoard','d2d4');expect(page.locator('#studyMessage')).to_contain_text('다른 등록 변형')
     page.get_by_role('button',name='해설 전환 · 디클라인드 · 정통 전개',exact=True).click()
     expect(page.locator('#studyCourse')).to_have_value('queens-declined')
+
+
+def test_first_visit_auto_board_and_late_resume_does_not_replace_move(page,site):
+    login(page,site);page.evaluate("tab('opening')")
+    expect(page.locator('#studyOpeningBoard .sq:enabled')).to_have_count(64)
+    expect(page.locator('#studyCourse')).to_have_value('italian-pianissimo')
+    page.locator('#studyCourse').select_option('french-advance')
+    expect(page.locator('#studyMessage')).to_contain_text('등록된')
+    click_move(page,'studyOpeningBoard','e2e4');expect(page.locator('#studyMessage')).to_contain_text('등록된')
+    page.get_by_role('button',name='학습 위치 저장',exact=True).click()
+    expect(page.locator('#studySaveStatus')).to_contain_text('저장했어요')
+    saved=page.evaluate("api('/study/openings')")
+    click_move(page,'studyOpeningBoard','e7e6');expect(page.locator('#studyMessage')).to_contain_text('등록된')
+    page.evaluate("""() => {const original=api;window.holdOpening=true;api=function(p,...a){if(p==='/study/openings'&&window.holdOpening){window.holdOpening=false;return new Promise(resolve=>window.releaseOpening=resolve);}return original(p,...a);};}""")
+    page.get_by_role('button',name='저장 위치 이어하기',exact=True).click()
+    click_move(page,'studyOpeningBoard','d2d4');expect(page.locator('#studyMessage')).to_contain_text('등록된')
+    before=page.locator('#studyOpeningBoard').inner_html()
+    page.evaluate('d=>window.releaseOpening(d)',saved);page.wait_for_timeout(150)
+    assert page.locator('#studyOpeningBoard').inner_html()==before
+    click_move(page,'studyOpeningBoard','d7d5');expect(page.locator('#studyMessage')).to_contain_text('등록된')

diff --git a/tests/test_study.py b/tests/test_study.py
@@ -89,3 +89,25 @@ def test_opening_bookmark_cas_separate_from_game_progress(runtime):
     saved=c.get('/api/study/openings').json()['saved'];assert saved['moves']==data['moves'] and saved['revision']==1
     server.initdb();assert c.get('/api/study/openings').json()['saved']==saved
     after=dict(server.get_state('RUNTIME-A'));after.pop('opening_study');assert before==after
+
+
+def test_commentary_matches_position_and_does_not_follow_free_moves():
+    for c in courses().values():
+        end=opening_position(OpeningPosition(course_id=c['id'],moves=c['moves']))
+        b=replay(chess.STARTING_FEN,c['moves'])
+        expected=' · '.join(label+' 폰: '+', '.join(chess.square_name(s) for s in b.pieces(chess.PAWN,color)) for color,label in [(chess.WHITE,'백'),(chess.BLACK,'흑')])
+        assert end['structure']==expected and end['plans']==c['ending'] and end['family_overview'] is None
+        free=opening_position(OpeningPosition(course_id=c['id'],moves=['a2a3']))
+        assert free['structure'] is None and free['plans'] is None and free['family_overview'] is None
+    for name in ['ruy-berlin','ruy-exchange']:
+        c=courses()[name];b=replay(chess.STARTING_FEN,c['moves'])
+        assert not b.pawns & b.occupied_co[chess.WHITE] & chess.BB_FILE_D
+        end=opening_position(OpeningPosition(course_id=name,moves=c['moves']))
+        assert 'c3-d4' not in end['plans']
+    dragon=courses()['sicilian-dragon'];b=replay(chess.STARTING_FEN,dragon['moves'])
+    assert b.piece_at(chess.C2)==chess.Piece(chess.PAWN,chess.WHITE)
+    assert not b.pawns & b.occupied_co[chess.BLACK] & chess.BB_FILE_C
+    assert '반열린 c파일' in dragon['notes'][20]
+    najdorf=courses()['sicilian-najdorf'];b=replay(chess.STARTING_FEN,najdorf['moves'][:19])
+    assert b.king(chess.WHITE)==chess.C1 and b.king(chess.BLACK)==chess.E8
+    assert '아직 e8' in najdorf['notes'][19]

diff --git a/tests/test_progress_followup_browser.py b/tests/test_progress_followup_browser.py
@@ -41,3 +41,24 @@ def test_equivalent_observation_is_not_unanswered(page,site):
     page.route('**/api/journey',lambda r:r.fulfill(json={'active':None,'latest':report,'results':[report]}))
     open_page(page,site);page.evaluate("tab('diagnosis')")
     expect(page.locator('.ability-card').first).to_contain_text('추가 확인 필요')
+
+
+def test_past_lazy_evidence_is_read_only_during_active_diagnosis(page,site):
+    report=report_fixture(number=1)
+    report['areas'][0]['items']=[{'id':'past-item','fen':'8/8/8/8/8/8/K7/7k w - - 0 1','expected':['a2a3']}]
+    data={'active':question(),'latest':report,'results':[report]}
+    page.route('**/api/journey',lambda r:r.fulfill(json=data))
+    mutations=[]
+    page.on('request',lambda r:mutations.append(r.url) if r.method=='POST' and '/api/learning/' in r.url else None)
+    open_page(page,site);page.evaluate("tab('diagnosis')")
+    expect(page.locator('#journeyProgress')).to_contain_text('1 / 2')
+    before=page.evaluate("api('/learning/dashboard')")
+    page.locator('#journeyPast > summary').click()
+    page.locator('#journeyPastReport').get_by_text('문항별 풀이와 자세한 근거',exact=True).click()
+    page.locator('#journeyPastReport').get_by_text('문항별 근거 확인',exact=True).first.click()
+    expect(page.locator('#journeyPastReport .journey-item')).to_have_count(1)
+    expect(page.locator('#journeyPastReport button:enabled')).to_have_count(0)
+    expect(page.locator('#journeyPastReport button:not(.sq)')).to_have_count(0)
+    assert not mutations
+    assert page.evaluate("api('/learning/dashboard')")==before
+    expect(page.locator('#journeyProgress')).to_contain_text('1 / 2')

diff --git a/study_server.py b/study_server.py
@@ -104,8 +104,9 @@ def opening_position(req):
           'transposed':idx is not None and req.moves!=c['moves'][:idx],
           'options':list(options.values()) if req.mode=='explore' else [],'note':last_note,
           'next_note':note(c,idx) if req.mode=='explore' and idx is not None and not own_end else None,
-          'plans':c['ending'] if own_end or req.mode=='explore' else None,
-          'structure':FAMILIES[c['family']][2] if own_end or req.mode=='explore' else None}
+          'plans':c['ending'] if own_end else None,
+          'structure':' · '.join(label+' 폰: '+', '.join(chess.square_name(s) for s in b.pieces(chess.PAWN,color)) for color,label in [(chess.WHITE,'백'),(chess.BLACK,'흑')]) if own_end else None,
+          'family_overview':FAMILIES[c['family']][1] if idx is not None and not own_end and req.mode=='explore' else None}
     if req.mode=='recall':data.update(note=None,matches=[{k:v for k,v in m.items() if k!='index'} for m in matches] if own_end else [])
     return data
 

diff --git a/README_INTERACTIVE_STUDY.md b/README_INTERACTIVE_STUDY.md
@@ -55,9 +55,17 @@
 - 첫 변경 검사 12실패/12통과: 새 용어 및 보류 사유 구조에 맞지 않는 기존 기대값을 수정했다. 후속 검사36통과/2실패: 반복 무승부 청구 시점을 반영한 검사 수정, 과거 보고서에 숨겨진 훈련 DOM이 남는 문제를 제거했다. 그 뒤 위 핵심16개 통과. 실패를 최종 통과로 합산하지 않는다.
 - 전체 회귀: **323통과/3실패, 630.06초**. 실패1건은 기술 근거 상세가 추가되어 기존 `#growthProfile summary`가 2개를 찾은 strict-selector 오류다. 기록 제목으로 선택자를 좁혔다. 실패2건은 PC/모바일의 이전 경로 검사에서 접힌 보조 영역을 펼치지 않아 버튼 클릭이 시간 초과된 것이다. 사용자와 같은 펼치기 단계를 추가했다. 애플리케이션 코드는 변경하지 않았다. 관련 모듈 전체와 신규 관찰 검사 **25개 최종 재실행 모두 통과(100.93초)**. 최종 수정은 검사 코드뿐이며 전체 단일 실행 무실패로 표기하지 않는다.
 - 중간 전체 실행 중단을 통과로 계산하지 않는다. 87통과/2실패 뒤 중단한 실행은 같은 접힌 이전 경로의 클릭 검사 수정으로 이어졌다. 이후 약50개 시점 중단은 실패 시 보드가 확인되지 않은 수순을 유지하던 복원 결함을 고치기 위해, 약116개 시점 중단은 오프닝 화면 재진입과 늦은 저장 위치/참고 응답 취소를 보완하기 위해 중단했다. 관련 이동/브라우저20개 재실행은 89.07초에 통과했으며 최종 전체 실행에서도 해당 앱 기능 검사는 통과했다.
-- 최종 이미지 `sha256:dcc3263b939fa486e447ed9f655f44afcd107bf12ce730387c8cfd99877d6577`: PostgreSQL17 검사 **13통과(38.49초)**. 초기 검사 컨테이너의 pip 인증서 오류는 호스트 CA를 읽기 전용으로 전달해 해결했다. TLS 검증은 끄지 않았다.
-- 같은 이미지 실제 HTTP, **1CPU·512MiB**: 균형 진단 OZElq Qc3 `verified_error/large_loss`, 깊이16/16, 479→−618cp(손실1097cp), 실제 엔진 응수, 분기 기록 불변, 혼자 풀기 후보 비노출, 오프닝 저장 후 컨테이너 재시작 복원 통과. 최대 메모리398,925,824바이트, OOM 없음. HTTP 검증 스크립트의 첫 실행은 공개 프로필의 비공개 필드 누락을 잘못 가정한 KeyError, 다음 실행은 가입 코드 대문자 정규화 누락으로 실패했다. 검사 스크립트만 실제 계약에 맞춰 수정했고 최종 실행은 통과했다.
+- 최종 이미지 `sha256:0d9d333ebba91a37f0fd77e5f10b340e4d74ce2f2ae036d06a99de4f492a2f3c`: PostgreSQL17 검사 **13통과(36.21초)**. 초기 검사 컨테이너의 pip 인증서 오류는 호스트 CA를 읽기 전용으로 전달해 해결했다. TLS 검증은 끄지 않았다.
+- 같은 이미지 실제 HTTP, **1CPU·512MiB**: 균형 진단 OZElq Qc3 `verified_error/large_loss`, 깊이16/16, 479→−618cp(손실1097cp), 실제 엔진 응수, 분기 기록 불변, 혼자 풀기 후보 비노출, 오프닝 저장 후 컨테이너 재시작 복원 통과. 최대 메모리399,601,664바이트, OOM 없음. HTTP 검증 스크립트의 첫 실행은 공개 프로필의 비공개 필드 누락을 잘못 가정한 KeyError, 다음 실행은 가입 코드 대문자 정규화 누락으로 실패했다. 검사 스크립트만 실제 계약에 맞춰 수정했고 최종 실행은 통과했다.
 - Python73개 AST/JavaScript16개 Node 구문, 기존 정적 검사6개, `git diff --check` 통과. 전용 타입/린트 구성은 없어 별도 타입 검사·린트 실행을 주장하지 않는다. TestClient/httpx deprecation 경고1건은 남아 있다.
 - [화면·이미지 HTTP·소스 해시 증거](docs/qa-interactive/README.md). 운영 배포·운영 계정 로그인·운영 DB 쓰기는 실행하지 않았다.
 
 남은 범위: 물리 모바일·Safari·네이티브 확대, 장기 학습 효과, 완전한 동등 수 증명, 모든 중반 전환의 강의, 분기 영구 저장 및 다중 서버 엔진 예산은 지원/검증을 주장하지 않는다. 실제 브라우저 화면은 Chromium의 PC/모바일 폭이며 세부 범위는 docs/qa-interactive에 기록한다.
+
+## 독립 리뷰 후 보완
+
+- 과거 보고서의 읽기 전용 상태를 지연 생성 콜백과 성장 결과에도 전달한다. 훈련/추가 진단 액션을 생성하지 않으며 진행 중 진단의 훈련 핸들러도 방어한다. 실제 브라우저에서 상세 펼침 후 활성 버튼 없음, 학습 POST 없음, 상태 불변을 확인했다.
+- 새 계정의 오프닝 첫 방문은 기본 강의를 자동 준비한다. 저장 위치 복원 대기 중 보드에 새 수를 두면 복원 의도도 취소한다. 실제 브라우저에서 저장 A→현재 B→복원 GET 지연→새 착수 C→옛 응답 해제 후 C 유지와 다음 합법 착수를 확인했다.
+- 계열 일반 개요는 현재 위치의 계획이 아님을 명시한다. 강의 끝에는 실제 폰 배치와 각 분기의 종료 계획만 보여 준다. 미등록 수/다른 강의 위치에는 선택 강의의 계획을 표시하지 않는다. 베를린·교환 변형에서 사라진 d폰을 다시 전진하라는 일반 계획이 나타나지 않는다. 드래곤 c파일은 반열림, 나이도프19반수는 흑 킹 e8, 베를린 Nc3는 나이트 전개, 오픈형 d6는 e5 제어로 수정했다. 27개 종료 위치와 미등록 위치, 해당 기물 배치를 규칙 엔진으로 검사했다.
+- 수정 전 요청받은 전체 재실행은 리뷰 반영을 위해 54통과/90.98초에서 중단했다. 리뷰 회귀18개 중17통과/1실패는 읽기 전용 보드의 비활성 칸64개까지 액션 버튼으로 센 검사 오류였다. 활성 버튼/보드 외 버튼을 따로 확인하도록 수정 후 관련 모듈4개 모두 통과(19.78초).
+- 리뷰 수정 이미지의 PostgreSQL13개(36.21초), 실제 HTTP 검증 통과. 최종 전체 실행 결과는 동일 커밋의 PR 검증 기록으로 추가한다.

diff --git a/docs/qa-interactive/README.md b/docs/qa-interactive/README.md
@@ -8,4 +8,4 @@
 - `latest-image-http.json`: 최종 로컬 이미지의 실제 HTTP/Stockfish/PostgreSQL 결과. 1CPU·512MiB, OOM 없음. 운영 당시 판정 보류의 원인을 소급 증명하는 자료는 아니다.
 - `image-source-hashes.json`: 검증 이미지의 애플리케이션 Python·JS/CSS/정적 자료·오프닝 원본·requirements 81개 파일 SHA256. 작업 트리와 일치함을 확인했다.
 
[2 lines of base64/hex data omitted]
